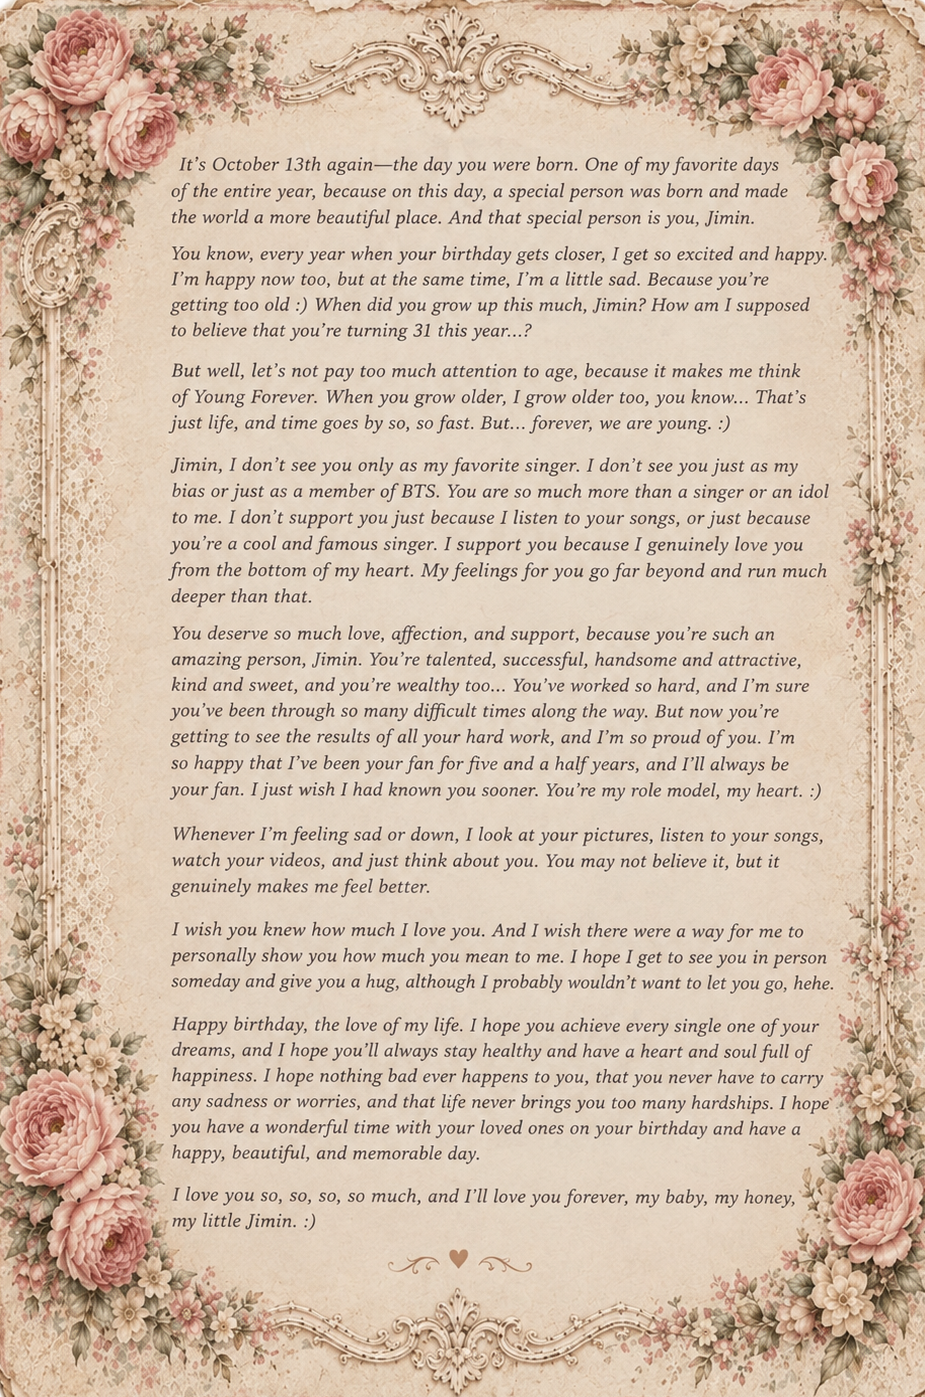
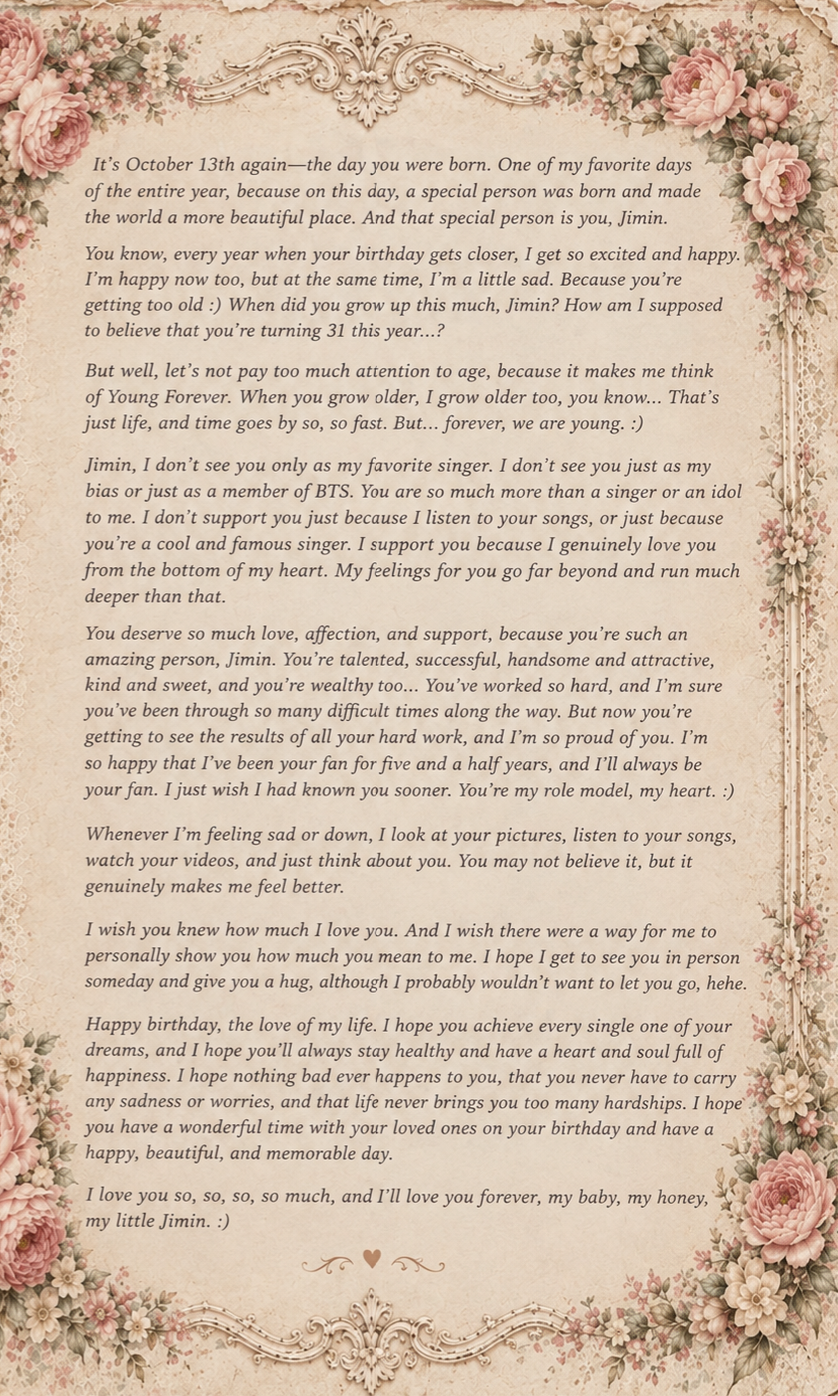
Update birthday website

diff --git a/jm.css b/jm.css
@@ -487,7 +487,7 @@ html {
   overflow-y: auto;
   box-sizing: border-box;
   padding: clamp(50px, 7vw, 80px);
-  background-image: url(NameDesk.png);
+  background-image: url(NameMob.png);
   background-size: cover; 
   background-position: center;
   background-repeat: no-repeat;
